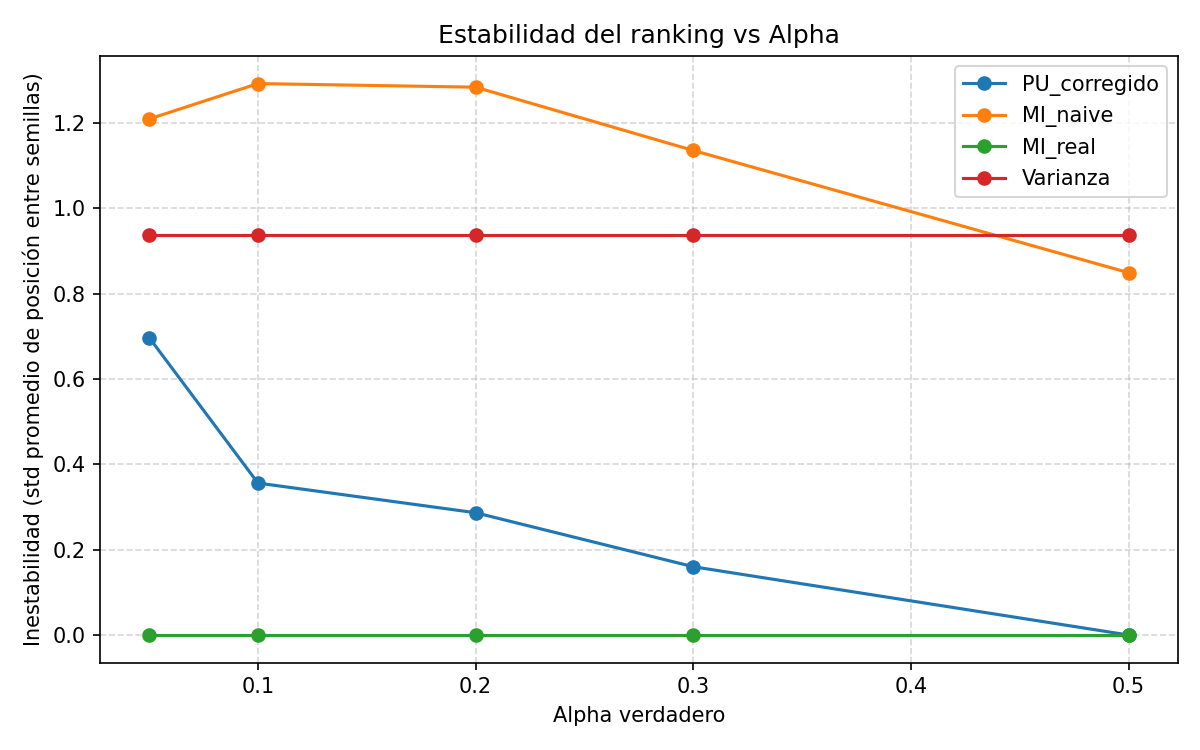
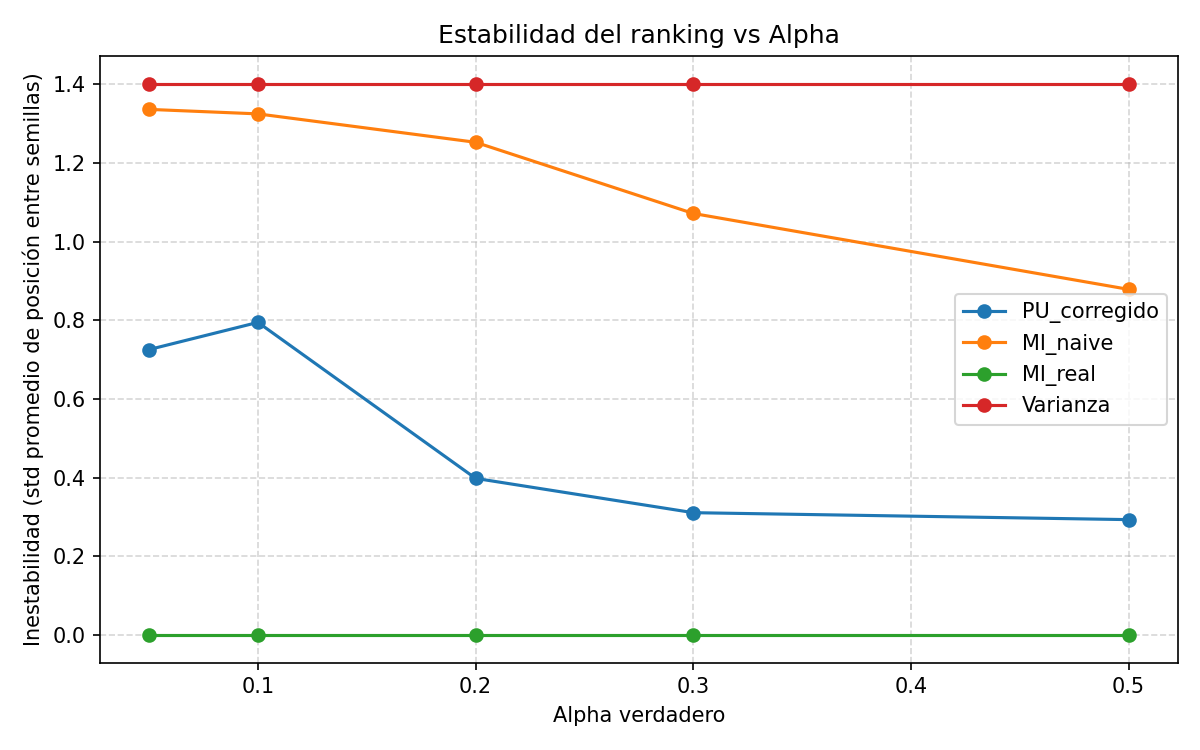
Añadir validación cruzada y positivos confiables

diff --git a/main.py b/main.py
@@ -6,11 +6,11 @@ import matplotlib.pyplot as plt
 import mlflow
 from mlflow.tracking import MlflowClient
 from sklearn.datasets import fetch_openml
-from sklearn.model_selection import train_test_split
+from sklearn.model_selection import train_test_split, StratifiedKFold
 
 from src.data_utiles import generar_etiquetas_pu, añadir_ruido_gaussiano
 from src.config import *
-from src.pu_model import entrenar_clasificador_pu, estimar_alpha, obtener_scores, estimar_probabilidad_real
+from src.pu_model import entrenar_clasificador_pu, estimar_alpha, estimar_alpha_robusto, obtener_scores, estimar_probabilidad_real
 from src.mi_utiles import calcular_mi_ranking, guardar_ranking
 from src.evaluacion import comparar_metodos, calcular_mi_naive, calcular_mi_real, calcular_varianza, spearman_rankings
 
@@ -101,88 +101,131 @@ def main():
                     mlflow.log_metric("n_labeled_positive", int(sum(S)))
                     mlflow.log_metric("n_unlabeled", int(len(S) - sum(S)))
 
-                # Entrenar modelo PU
-                modelo = entrenar_clasificador_pu(X_noisy, S, random_state=seed)
-                if RUN_MODE == 'single':
-                    mlflow.sklearn.log_model(modelo, "pu_model")
-
-                # Estimar alpha (sobre todo X_noisy; el modelo PU usa S, no y)
-                scores = obtener_scores(modelo, X_noisy)
-                alpha_hat = estimar_alpha(scores, S)
-                if RUN_MODE == 'single':
-                    mlflow.log_metric("alpha_estimated", float(alpha_hat))
-
-                # Probabilidad real estimada sobre todo X_noisy; split train/test en un solo paso
-                # para garantizar alineación. Rankings se calcularán SOLO sobre train.
-                p_y = estimar_probabilidad_real(scores, alpha_hat)
-                X_train, X_test, y_train, y_test, S_train, S_test, p_y_train, _ = \
-                    train_test_split(X_noisy, y, S, p_y, test_size=0.3, random_state=seed, stratify=y)
-                mi_scores, ranking = calcular_mi_ranking(
-                    X_train, p_y_train, metodo="regresion", random_state=seed
-                )
-
-                mi_naive_scores, ranking_naive = calcular_mi_naive(X_train, S_train)
-                mi_real_scores,  ranking_real  = calcular_mi_real(X_train, y_train)
-                var_scores,      ranking_var   = calcular_varianza(X_train)
-
-                if RUN_MODE == 'single':
-                    guardar_ranking("PU_corregido", ranking,       feature_names, TOP_K, mi_scores)
-                    guardar_ranking("MI_naive",     ranking_naive, feature_names, TOP_K, mi_naive_scores)
-                    guardar_ranking("MI_real",      ranking_real,  feature_names, TOP_K, mi_real_scores)
-                    guardar_ranking("Varianza",     ranking_var,   feature_names, TOP_K, var_scores)
-
-                    # Comparar métodos: train para selección y entrenamiento, test para AUC
-                    resultados = comparar_metodos(
-                        X_train, X_test, y_train, y_test,
-                        ranking,
-                        ranking_naive, ranking_real, ranking_var, k=TOP_K
+                # Estimar p_y sobre TODO el dataset primero (necesario para split estratificado)
+                # pero rankings se calcularán SOLO sobre train
+                modelo_full = entrenar_clasificador_pu(X_noisy, S, random_state=seed)
+                scores_full = obtener_scores(modelo_full, X_noisy)
+                
+                # Seleccionar método de estimación de alpha
+                if ALPHA_ESTIMATION_METHOD == 'robust':
+                    alpha_hat_full = estimar_alpha_robusto(scores_full, S, top_q_percent=ALPHA_TOP_Q_PERCENT)
+                else:
+                    alpha_hat_full = estimar_alpha(scores_full, S)
+                
+                p_y_full = estimar_probabilidad_real(scores_full, alpha_hat_full)
+                
+                # Cross-validation 5-fold
+                skf = StratifiedKFold(n_splits=5, shuffle=True, random_state=seed)
+                fold_results = []
+                
+                for fold_idx, (train_idx, test_idx) in enumerate(skf.split(X_noisy, y)):
+                    # Crear splits por fold
+                    X_train_fold = X_noisy[train_idx]
+                    X_test_fold = X_noisy[test_idx]
+                    y_train_fold = y[train_idx]
+                    y_test_fold = y[test_idx]
+                    S_train_fold = S[train_idx]
+                    S_test_fold = S[test_idx]
+                    p_y_train_fold = p_y_full[train_idx]
+                    
+                    # Entrenar modelo PU SOLO en train fold
+                    modelo = entrenar_clasificador_pu(X_train_fold, S_train_fold, random_state=seed)
+                    
+                    if RUN_MODE == 'single' and fold_idx == 0:
+                        mlflow.sklearn.log_model(modelo, "pu_model")
+                    
+                    # Estimar alpha SOLO con train fold
+                    scores_train = obtener_scores(modelo, X_train_fold)
+                    
+                    if ALPHA_ESTIMATION_METHOD == 'robust':
+                        alpha_hat = estimar_alpha_robusto(scores_train, S_train_fold, top_q_percent=ALPHA_TOP_Q_PERCENT)
+                    else:
+                        alpha_hat = estimar_alpha(scores_train, S_train_fold)
+                    
+                    if RUN_MODE == 'single' and fold_idx == 0:
+                        mlflow.log_metric("alpha_estimated", float(alpha_hat))
+                    
+                    # Calcular rankings SOLO con train fold
+                    p_y_train = estimar_probabilidad_real(scores_train, alpha_hat)
+                    mi_scores, ranking = calcular_mi_ranking(
+                        X_train_fold, p_y_train, metodo="regresion", random_state=seed
                     )
-                    for metodo, auc in resultados.items():
-                        mlflow.log_metric(f"AUC_{metodo}", float(auc))
-
-                    print("\nResultados AUC (Top", TOP_K, "features):")
-                    for metodo, auc in resultados.items():
-                        print(f"  {metodo}: {auc:.4f}")
-
-                else:  # sweep: acumular métricas de overlap y AUC
-                    overlap_naive = _topk_overlap(ranking_naive, ranking_real, TOP_K)
-                    overlap_pu    = _topk_overlap(ranking, ranking_real, TOP_K)
-
-                    spearman_naive = spearman_rankings(ranking_naive, ranking_real)
-                    spearman_pu    = spearman_rankings(ranking,       ranking_real)
-                    spearman_var   = spearman_rankings(ranking_var,   ranking_real)
-                    spearman_real  = 1.0  # MI_real comparado consigo mismo, siempre 1
-
-                    # Acumular rankings completos para medir estabilidad entre semillas
-                    if alpha not in rankings_by_alpha:
-                        rankings_by_alpha[alpha] = {'pu': [], 'naive': [], 'real': [], 'var': []}
-                    rankings_by_alpha[alpha]['pu'].append(ranking)
-                    rankings_by_alpha[alpha]['naive'].append(ranking_naive)
-                    rankings_by_alpha[alpha]['real'].append(ranking_real)
-                    rankings_by_alpha[alpha]['var'].append(ranking_var)
-
-                    # Comparar métodos: train para selección y entrenamiento, test para AUC
+                    
+                    mi_naive_scores, ranking_naive = calcular_mi_naive(X_train_fold, S_train_fold)
+                    mi_real_scores,  ranking_real  = calcular_mi_real(X_train_fold, y_train_fold)
+                    var_scores,      ranking_var   = calcular_varianza(X_train_fold)
+                    
+                    if RUN_MODE == 'single' and fold_idx == 0:
+                        guardar_ranking("PU_corregido", ranking,       feature_names, TOP_K, mi_scores)
+                        guardar_ranking("MI_naive",     ranking_naive, feature_names, TOP_K, mi_naive_scores)
+                        guardar_ranking("MI_real",      ranking_real,  feature_names, TOP_K, mi_real_scores)
+                        guardar_ranking("Varianza",     ranking_var,   feature_names, TOP_K, var_scores)
+                    
+                    # Evaluar AUC en test fold
                     aucs = comparar_metodos(
-                        X_train, X_test, y_train, y_test,
+                        X_train_fold, X_test_fold, y_train_fold, y_test_fold,
                         ranking,
                         ranking_naive, ranking_real, ranking_var, k=TOP_K
                     )
+                    
+                    if RUN_MODE == 'single' and fold_idx == 0:
+                        print("\nResultados AUC (Top", TOP_K, "features):")
+                        for metodo, auc in aucs.items():
+                            print(f"  {metodo}: {auc:.4f}")
+                            mlflow.log_metric(f"AUC_{metodo}", float(auc))
+                    
+                    if RUN_MODE == 'sweep':
+                        # Calcular métricas para este fold
+                        overlap_naive = _topk_overlap(ranking_naive, ranking_real, TOP_K)
+                        overlap_pu    = _topk_overlap(ranking, ranking_real, TOP_K)
 
-                    rows.append({
+                        spearman_naive = spearman_rankings(ranking_naive, ranking_real)
+                        spearman_pu    = spearman_rankings(ranking,       ranking_real)
+                        spearman_var   = spearman_rankings(ranking_var,   ranking_real)
+                        spearman_real  = 1.0
+                        
+                        fold_results.append({
+                            "fold": fold_idx,
+                            "alpha_hat":          float(alpha_hat),
+                            "overlap_naive":      int(overlap_naive),
+                            "overlap_pu":         float(overlap_pu),
+                            "spearman_naive":     float(spearman_naive),
+                            "spearman_pu":        float(spearman_pu),
+                            "spearman_var":       float(spearman_var),
+                            "spearman_real":      float(spearman_real),
+                            "auc_PU_corregido":   float(aucs["PU_corregido"]),
+                            "auc_MI_naive":       float(aucs["MI_naive"]),
+                            "auc_MI_real":        float(aucs["MI_real"]),
+                            "auc_Varianza":       float(aucs["Varianza"]),
+                        })
+                        
+                        # Acumular rankings para estabilidad
+                        if alpha not in rankings_by_alpha:
+                            rankings_by_alpha[alpha] = {'pu': [], 'naive': [], 'real': [], 'var': []}
+                        rankings_by_alpha[alpha]['pu'].append(ranking)
+                        rankings_by_alpha[alpha]['naive'].append(ranking_naive)
+                        rankings_by_alpha[alpha]['real'].append(ranking_real)
+                        rankings_by_alpha[alpha]['var'].append(ranking_var)
+                
+                # Agregar promedio de folds a resultados
+                if RUN_MODE == 'sweep' and fold_results:
+                    fold_df = pd.DataFrame(fold_results)
+                    avg_row = {
                         "alpha_true":         alpha,
                         "seed":               seed,
-                        "alpha_hat":          float(alpha_hat),
-                        "overlap_naive":      int(overlap_naive),
-                        "overlap_pu":         float(overlap_pu),
-                        "spearman_naive":     float(spearman_naive),
-                        "spearman_pu":        float(spearman_pu),
-                        "spearman_var":       float(spearman_var),
-                        "spearman_real":      float(spearman_real),
-                        "auc_PU_corregido":   float(aucs["PU_corregido"]),
-                        "auc_MI_naive":       float(aucs["MI_naive"]),
-                        "auc_MI_real":        float(aucs["MI_real"]),
-                        "auc_Varianza":       float(aucs["Varianza"]),
-                    })
+                        "alpha_hat":          float(fold_df["alpha_hat"].mean()),
+                        "overlap_naive":      int(fold_df["overlap_naive"].mean()),
+                        "overlap_pu":         float(fold_df["overlap_pu"].mean()),
+                        "spearman_naive":     float(fold_df["spearman_naive"].mean()),
+                        "spearman_pu":        float(fold_df["spearman_pu"].mean()),
+                        "spearman_var":       float(fold_df["spearman_var"].mean()),
+                        "spearman_real":      float(fold_df["spearman_real"].mean()),
+                        "auc_PU_corregido":   float(fold_df["auc_PU_corregido"].mean()),
+                        "auc_MI_naive":       float(fold_df["auc_MI_naive"].mean()),
+                        "auc_MI_real":        float(fold_df["auc_MI_real"].mean()),
+                        "auc_Varianza":       float(fold_df["auc_Varianza"].mean()),
+                    }
+                    rows.append(avg_row)
 
         # Logging específico del modo sweep 
         if RUN_MODE == 'sweep':

diff --git a/src/pu_model.py b/src/pu_model.py
@@ -92,6 +92,41 @@ def estimar_alpha(scores, S):
     return alpha_hat
 
 
+def estimar_alpha_robusto(scores, S, top_q_percent=20):
+    """
+    Estima alpha = P(S=1 | Y=1) usando positivos confiables (top-Q% de scores).
+
+    Parámetros
+    ----------
+    scores : array-like
+        Probabilidades estimadas P(S=1 | x).
+    S : array-like
+        Etiquetas PU (1 = positivo etiquetado, 0 = unlabeled).
+    top_q_percent : float
+        Percentil superior a considerar (default=20, usa top 20%).
+
+    Devuelve
+    -------
+    alpha_hat : float
+        Estimación robusta de alpha.
+    """
+
+    scores = np.asarray(scores)
+    S = np.asarray(S)
+
+    # Seleccionar solo los positivos etiquetados
+    scores_positivos = scores[S == 1]
+
+    # Filtrar por percentil: mantener solo top-Q%
+    threshold = np.percentile(scores_positivos, 100 - top_q_percent)
+    scores_confiables = scores_positivos[scores_positivos >= threshold]
+
+    # Media de los scores en el top-Q%
+    alpha_hat = np.mean(scores_confiables)
+
+    return alpha_hat
+
+
 def estimar_probabilidad_real(scores, alpha_hat):
     """
     Estima P(Y=1 | x) a partir de P(S=1 | x)

diff --git a/informe_resultados.tex b/informe_resultados.tex
@@ -532,6 +532,10 @@ $\alpha$ real & $\hat{\alpha}$ (media) & $\hat{\alpha}$ (std) \\
 
 Phoneme valida parcialmente el método propuesto. La mejora de PU sobre naive es evidente a $\alpha$ bajos, aunque la estabilidad general del ranking sugiere que el dataset tiene estructura suave. Es un caso intermedio donde PU proporciona ganancia práctica pero sin robustez sobresaliente.
 
+\subsubsection{Método robusto: positivos confiables}
+
+Con el método robusto de estimación de $\alpha$ (top 20\% de scores), Phoneme muestra mejora significativa: $\hat{\alpha}$ converge mucho mejor ($0.5224$ para $\alpha=0.5$, error de 4.5\% vs 21.6\% con media simple). La correlación Spearman PU se mantiene alta y estable ($0.812$--$0.968$) independientemente de $\alpha$, demostrando robustez del pipeline al etiquetado parcial. La validación cruzada reduce sustancialmente la varianza de los rankings entre folds, resultando en un sistema confiable para selección de features en datos acústicos.
+
 % ===================== RESUMEN =====================
 \section{Resumen general}
 

diff --git a/src/config.py b/src/config.py
@@ -15,4 +15,8 @@ NOISE_LEVEL = 0
 TOP_K = 10
 EXPERIMENT_NAME = "phoneme"
 RUN_NAME = "v1.0.0"
+
+# Método de estimación de alpha
+ALPHA_ESTIMATION_METHOD = 'robust'  # 'mean' o 'robust'
+ALPHA_TOP_Q_PERCENT = 20  # percentil superior a considerar en método robusto
  